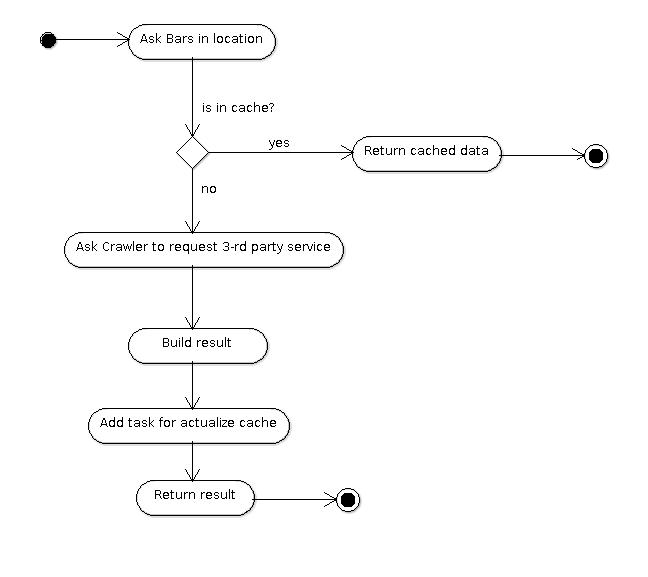
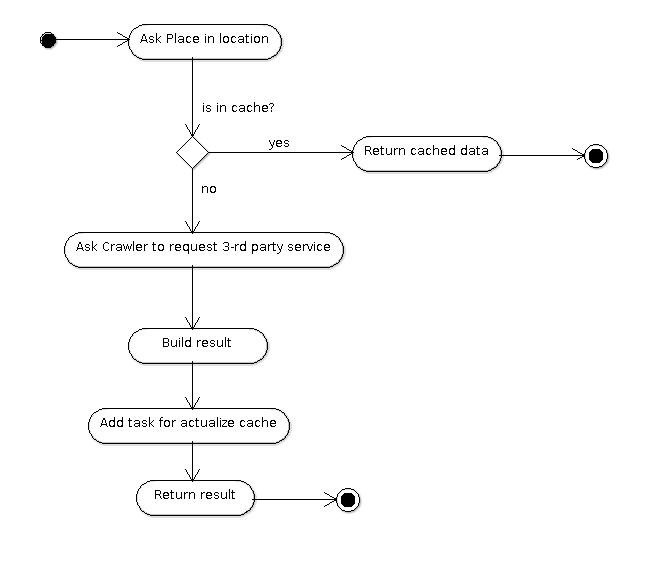
Fixed readme typo. Replaced 'Bar' with 'Place' in UML.

diff --git a/README.md b/README.md
@@ -116,7 +116,7 @@ PlaceSearchApi has those layers:
 
 1. Framework: Silex
 2. Application: App
-3. Domain: Search, Engine, Command
+3. Domain: Search, Engine
 4. Core Domain: Model
 
 Extensibility
@@ -153,7 +153,7 @@ PlaceSearchApi does not have Framework dependency:
 * domain does not use Frameworks components
 
 ### 3-rd party dependency
-PlaceSearchApi uses own Interfaces and wrappers over 3-rd party applications additionally it's catch and resent own Exceptions.
+PlaceSearchApi uses own Interfaces and wrappers over 3-rd party applications additionally it's catch and resend own Exceptions.
 
 ### Code coupling
 Having layer architecture additional with composition bring independent and clear communication between modules.

diff --git a/dev/docker/README.md b/dev/docker/README.md
@@ -45,12 +45,6 @@ Please configure you `host` in you host machine:
 1. Add line `place-search.dev 0.0.0.0`
 2. Open `http://place-search.dev:8080` in your browser
 
-### MongoDB
-in-progress
-
-### RabbitMQ
-in-progress
-
 Configuration IDE (PhpStorm)
 ---------------------------- 
 ### Remote interpreter

diff --git a/CHANGELOG.md b/CHANGELOG.md
@@ -1,6 +1,11 @@
 CHANGELOG
 =========
 
+0.1.1 (2016-11-04)
+------------------
+* Fixed readme type
+* Replaced `Bar` to `Place` in UMLs
+
 0.1.0 (2016-11-01)
 ------------------
 * Prototype
